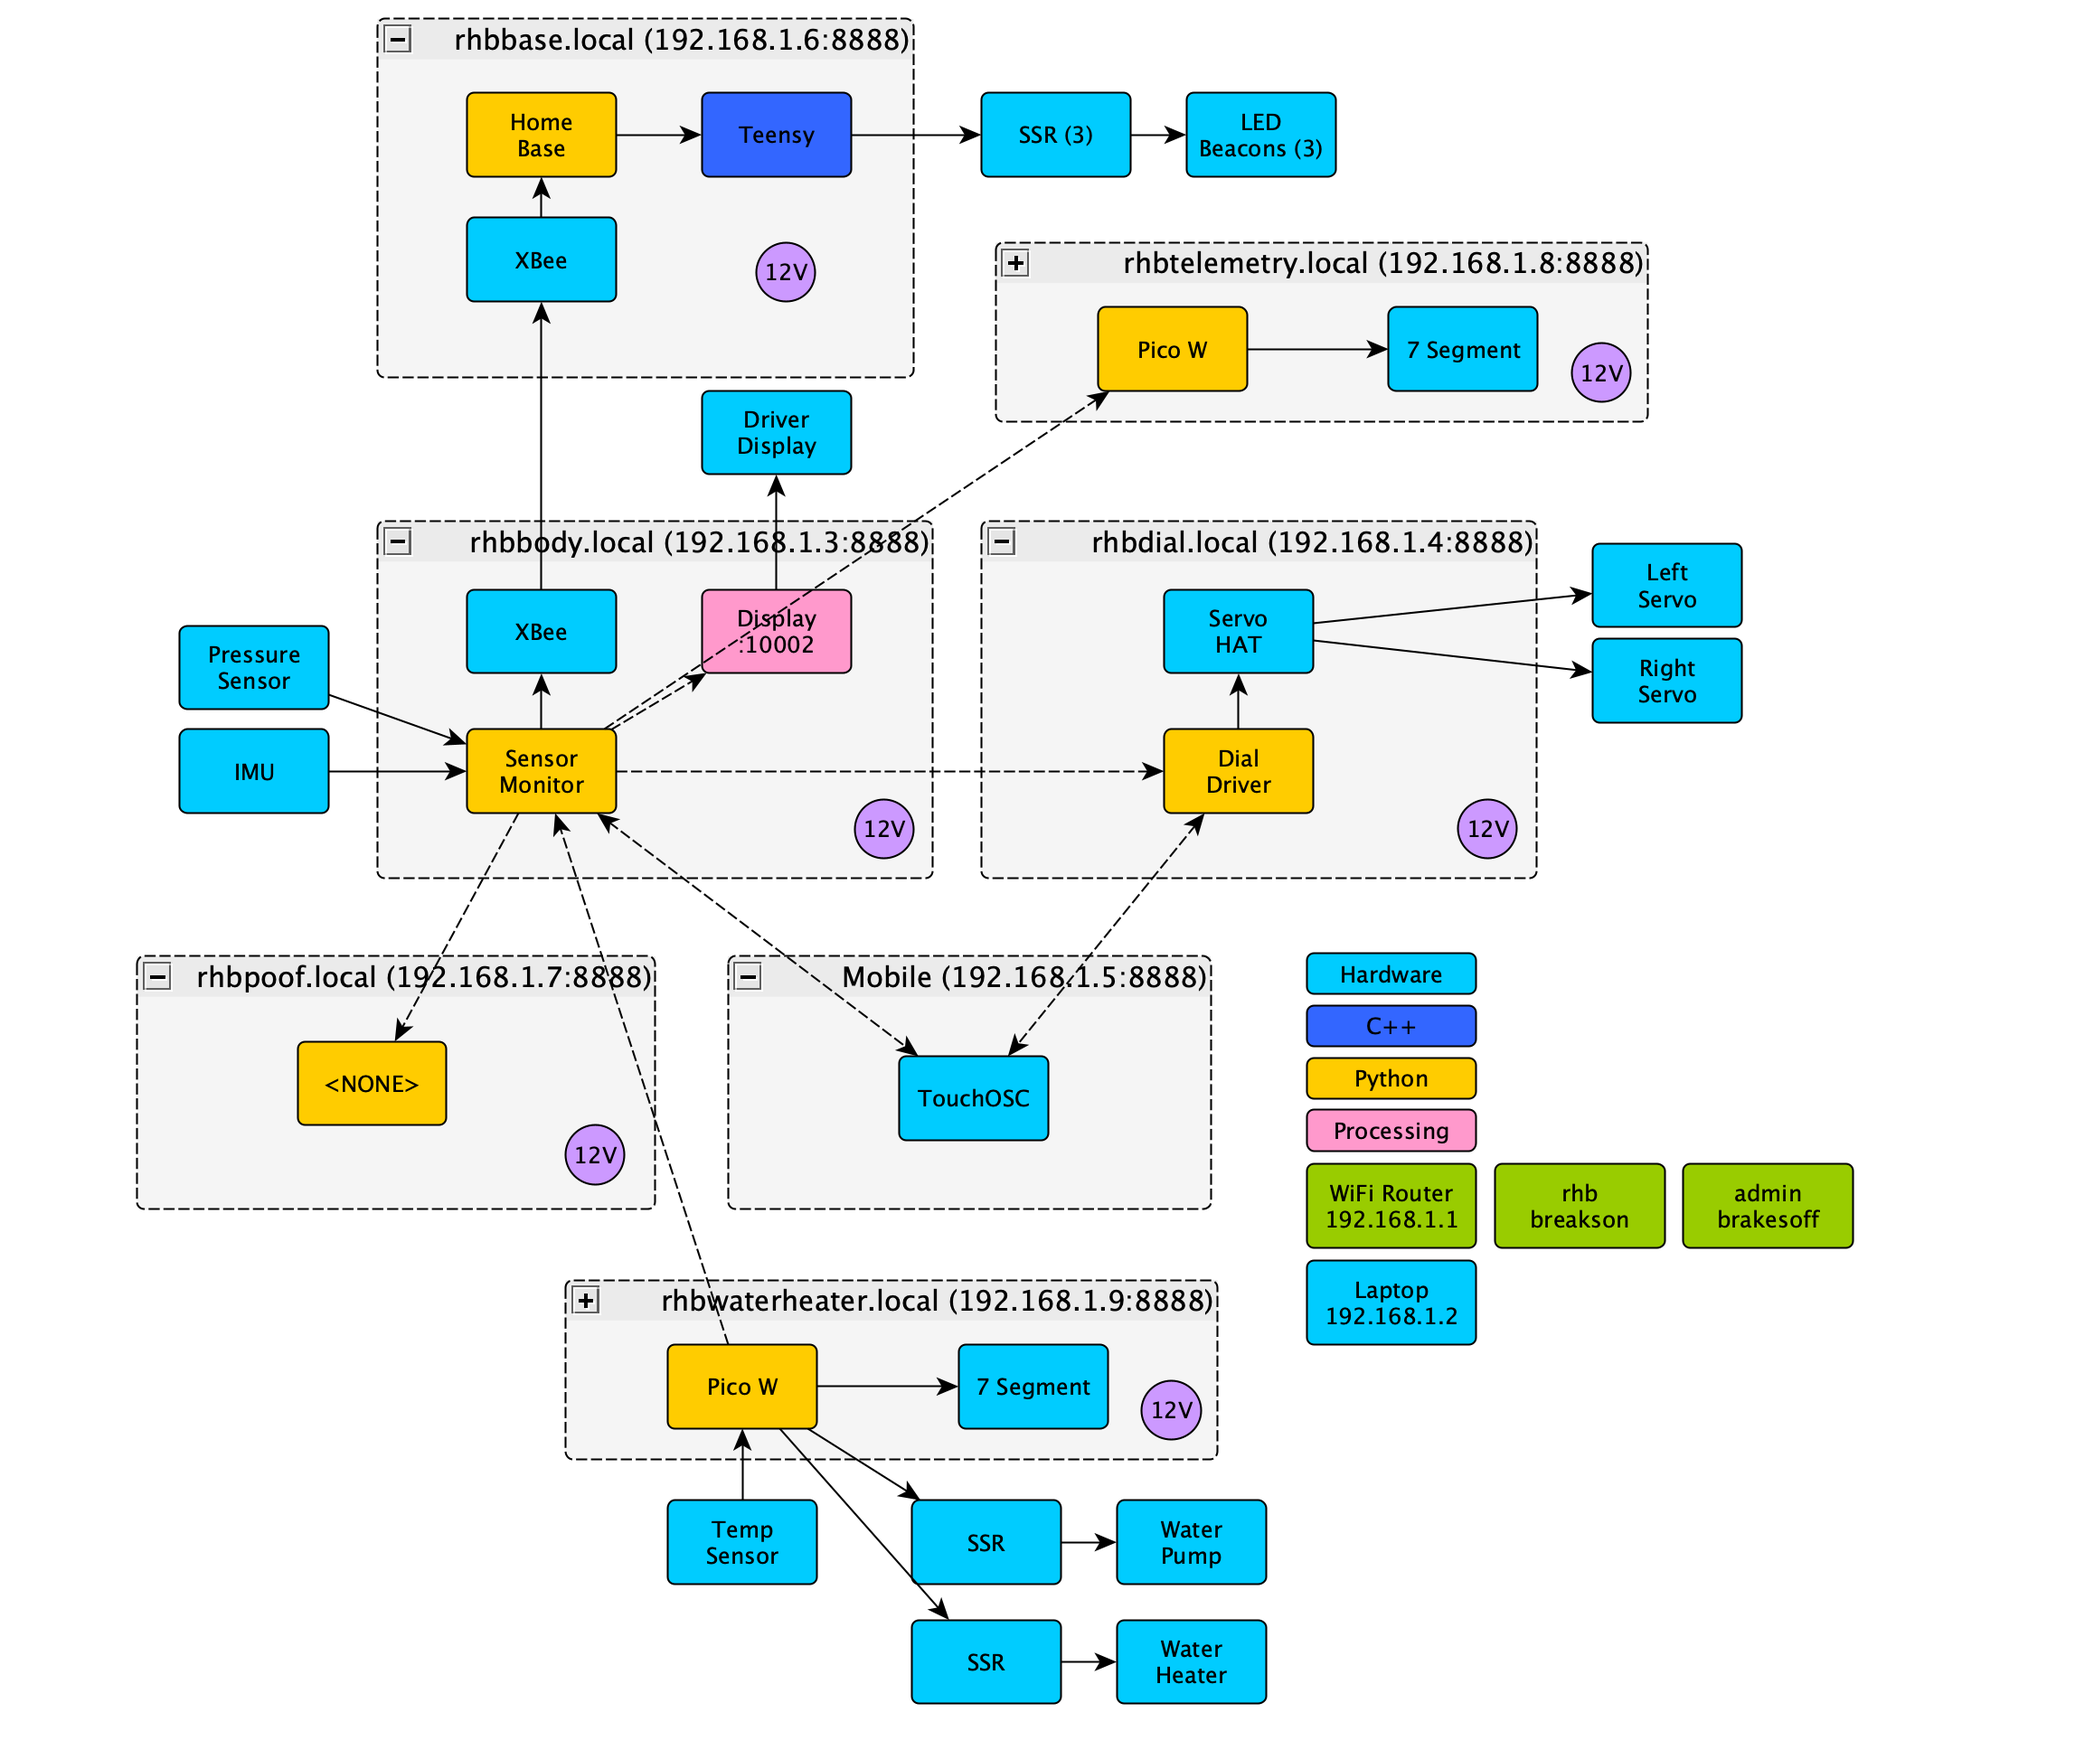
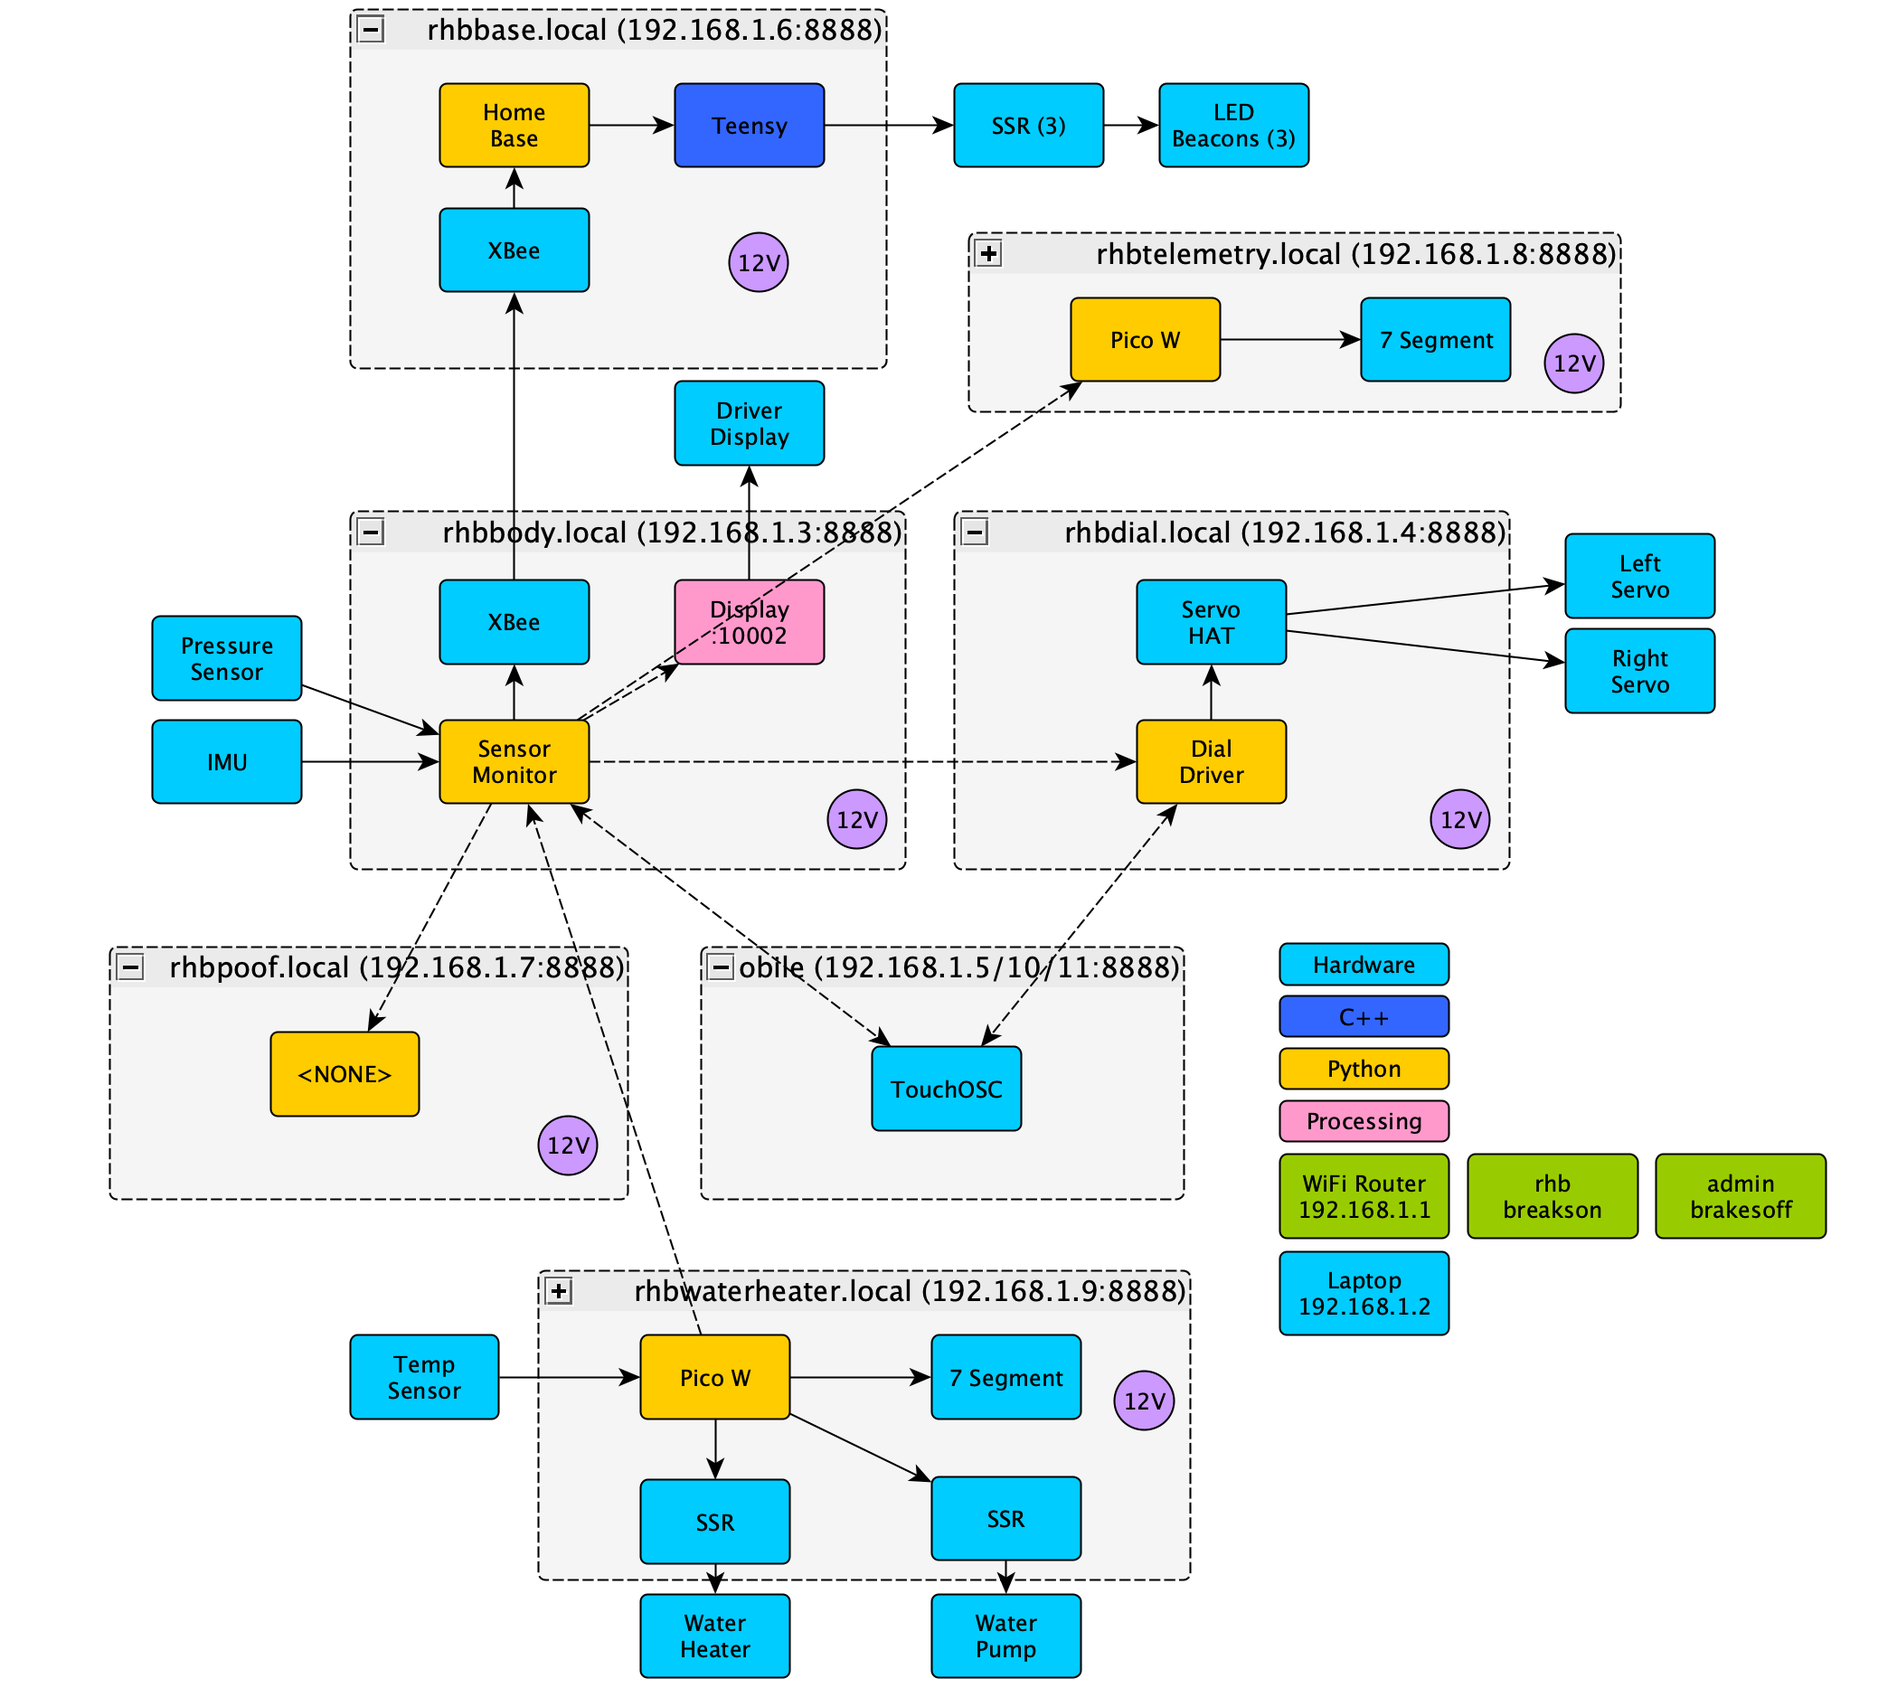
updates for 2024

Changed region(s): [[0.062, 0.0, 0.9604, 1.0], [0.1859, 0.7812, 0.2788, 0.8438]]

diff --git a/rhb-sensor-monitor.py b/rhb-sensor-monitor.py
@@ -30,6 +30,8 @@ from pythonosc import osc_message_builder
 from pythonosc import udp_client
 from digi.xbee.devices import XBeeDevice, RemoteXBeeDevice, XBee64BitAddress
 
+import rhb_sensor_monitor.alternating_sensor as AS
+
 XBEE_COORDINATOR = "0013A20041CB4F87"
 XBEE_ROUTER = "0013A20041CB7786"
 radio = XBeeDevice("/dev/ttyUSB0", 9600)
@@ -49,7 +51,7 @@ data_stream = gps3.DataStream()
 
 FORMAT = "%(asctime)-15s|%(module)s|%(lineno)d|%(message)s"
 logging.basicConfig(format=FORMAT)
-logger = logging.getLogger(__file__)
+logger = logging.getLogger("rhb-sensor-monitor")
 logger.setLevel(logging.INFO)
 
 FILE_HANDLER = RotatingFileHandler("rhb-sensor-monitor.log", maxBytes=40000, backupCount=5)
@@ -71,6 +73,9 @@ metrics = ml.MetricLogging(
     "/home/pi/development/data",
 )
 
+oil_pressure_sensor = AS.AlternatingSensor(29, "oil_pressure", 1000)
+speedometer_sensor = AS.AlternatingSensor(31, "speodometer", 1000)
+
 
 def handle_exception(func):
     """ Handle exception when interacting with peripherals """
@@ -89,7 +94,11 @@ def broadcast(endpoint, value):
     msg = osc_message_builder.OscMessageBuilder(address=endpoint)
     msg.add_arg(value)
     built = msg.build()
-    list(map(lambda x: x.send(built), osc_clients))
+    try:
+        for client in osc_clients:
+            client.send(built)
+    except Exception as e:
+        print(e)
 
 
 def pi_temp() -> float:
@@ -133,10 +142,11 @@ def update_pressure():
     global last_pressure_timestamp
     update = (datetime.datetime.now() - last_pressure_timestamp) > PRESSURE_PERIOD
     pressure = poof_track.pressure_from_raw(pressure_sensor.read_pressure())
-    if metrics.temp.empty or update or int(round(pressure)) != int(round(float(poof_track.last_pressure))):
+    if metrics.temp.empty or update or pressure != poof_track.last_pressure:
         broadcast("/pressure", float(round(float(poof_track.last_pressure))))
+        broadcast("/pressure_fine", poof_track.last_pressure)
         last_pressure_timestamp = datetime.datetime.now()
-    poof_track.add_observation(pressure)
+        poof_track.add_observation(pressure)
     if metrics.pressure.empty or poof_track.poofing():
         piglow.red(64)
         piglow.show()
@@ -148,11 +158,29 @@ def update_pressure():
                 ),
             ]
         )
-        #broadcast("/poof_count", float(poof_track.poof_count))
-        #logger.info(f"Pressure = {pressure}")
     elif not poof_track.poofing():
         piglow.red(0)
         piglow.show()
+
+
+def cardinal_from_heading(heading) -> str:
+    """Cardinal direction from heading value"""
+    if heading >= 337.5 or heading < 22.5:
+        return "N"
+    if 22.5 <= heading < 67.5:
+        return "NE"
+    if 67.5 <= heading < 112.5:
+        return "E"
+    if 112.5 <= heading < 157.5:
+        return "SE"
+    if 157.5 <= heading < 202.5:
+        return "S"
+    if 202.5 <= heading < 247.5:
+        return "SW"
+    if 247.5 <= heading < 292.5:
+        return "W"
+    if 292.5 <= heading < 337.5:
+        return "NW"
 
 
 @handle_exception
@@ -163,6 +191,7 @@ def update_imu():
     if metrics.imu.empty or (abs(heading - metrics.imu["heading"].iloc[-1]) > 1.5):
         broadcast("/imu", json.dumps(updated_imu_state))
         broadcast("/heading", heading)
+        broadcast("/cardinal", cardinal_from_heading(heading))
         metrics.imu = pd.concat(
             [
                 metrics.imu,
@@ -231,14 +260,37 @@ def broadcast_last():
             broadcast("/position/lon", float(metrics.position["lon"].iloc[-1]))
         if metrics.imu.shape[0] > 0:
             broadcast("/heading", float(metrics.imu["heading"].iloc[-1]))
+            broadcast("/cardinal", cardinal_from_heading(float(metrics.imu["heading"].iloc[-1])))
         broadcast("/pressure", float(round(float(poof_track.last_pressure))))
         #if metrics.temp.shape[0] > 0:
         #    broadcast("/temperature", float(int(metrics.temp["temp_f"].iloc[-1])))
         #    broadcast("/temperature_cpu", float(metrics.temp["temp_cpu"].iloc[-1]))
-        if metrics.disk.shape[0] > 0:
-            broadcast("/free_disk", float(metrics.disk["free"].iloc[-1]))
+        #if metrics.disk.shape[0] > 0:
+        #    broadcast("/free_disk", float(metrics.disk["free"].iloc[-1]))
         broadcast("/poof_count", float(poof_track.poof_count))
-        broadcast("/poof_seconds", float(poof_track.poof_time))
+        #broadcast("/poof_seconds", float(poof_track.poof_time))
+        broadcast("/engine", float(oil_pressure_sensor.sample()))
+        broadcast("/moving", oil_pressure_sensor.active())
+
+
+@handle_exception
+def update_oil_pressure():
+    """Check on oil_pressure"""
+    new_value = oil_pressure_sensor.sample()
+    if oil_pressure_sensor.should_broadcast(new_value):
+        broadcast("/engine", float(new_value))
+
+
+@handle_exception
+def update_speedometer():
+    """Check on speedometer"""
+    new_value = speedometer_sensor.active()
+    if speedometer_sensor.should_broadcast(new_value):
+        if new_value:
+            print("moving")
+        else:
+            print("stopped")
+        broadcast("/moving", float(new_value))
 
 
 async def main_loop():
@@ -249,9 +301,11 @@ async def main_loop():
         try:
             metrics.persist()
             update_pressure()
+            update_oil_pressure()
+            update_speedometer()
             update_imu()
             #update_temperature()
-            update_disk_usage()
+            #update_disk_usage()
             new_data = gps_socket.next()
             if new_data:
                 data_stream.unpack(new_data)
@@ -313,7 +367,7 @@ if __name__ == "__main__":
         help="The port the display osc server is listening on",
     )
     parser.add_argument(
-        "--client_ip", default="192.168.1.4,192.168.1.5,192.168.1.8,192.168.1.9", help="The ips of the data clients"
+        "--client_ip", default="192.168.1.4,192.168.1.5,192.168.1.8,192.168.1.9,192.168.1.10,192.168.1.11", help="The ips of the data clients"
     )
     parser.add_argument(
         "--client_port",
@@ -323,8 +377,7 @@ if __name__ == "__main__":
     )
     args = parser.parse_args()
 
-    display_client = udp_client.UDPClient(args.display_ip, args.display_port)
     osc_clients = list(map(lambda x: udp_client.UDPClient(x, args.client_port), args.client_ip.split(",")))
-    osc_clients = osc_clients + [display_client]
+    osc_clients = osc_clients + [udp_client.UDPClient(args.display_ip, args.display_port)]
 
     asyncio.run(init_main())

diff --git a/rhb_sensor_monitor/poof_track.py b/rhb_sensor_monitor/poof_track.py
@@ -19,9 +19,9 @@ import pandas as pd
 from collections import deque
 
 PRESSURE_QUEUE_LEN = 10000
-INSTANT_PRESSURE_QUEUE_LEN = 20
+INSTANT_PRESSURE_QUEUE_LEN = 40
 
-logger = logging.getLogger(__file__)
+logger = logging.getLogger("rhb-sensor-monitor")
 
 
 class PoofTrack:
@@ -36,26 +36,32 @@ class PoofTrack:
 
     @staticmethod
     def pressure_from_raw(raw_pressure) -> float:
-        """Compute from raw"""
-        return max(float(raw_pressure) * 10.0 / 2000.0 + 10, 0.0)
+        """Compute from raw rounded to 0.1"""
+        observation = max(float(raw_pressure) * 10.0 / 2000.0 + 10, 0.0)
+        observation = float(int(observation * 10.0)) / 10.0
+        return observation
 
     def add_observation(self, pressure):
         """ Add 'pressure' observation """
-        self.last_pressure = pressure
-        self.pressure_queue.appendleft(pressure)
-        self.instant_pressure_queue.appendleft(pressure)
+        self.last_pressure = int(pressure)
+        self.pressure_queue.appendleft(self.last_pressure)
+        self.instant_pressure_queue.appendleft(self.last_pressure)
         if len(self.pressure_queue) >= PRESSURE_QUEUE_LEN:
             self.pressure_queue.pop()
         if len(self.instant_pressure_queue) >= INSTANT_PRESSURE_QUEUE_LEN:
             self.instant_pressure_queue.pop()
-        if self.base_pressure == 0 or pressure != self.base_pressure:
-            if not self.poofing():
+        if not self.poofing():
+            if self.base_pressure != pd.Series(self.pressure_queue).median():
                 self.base_pressure = pd.Series(self.pressure_queue).median()
-        if (self.base_pressure - pd.Series(self.instant_pressure_queue).median()) > 3:
+                logger.info(f"base_pressure set to {self.base_pressure}")
+        if abs(self.last_pressure - self.base_pressure) > 3:
             if not self.poofing():
                 self.start()
+                logger.info(f"PoofStart --> Count: {self.poof_count}, last_pressure: {self.last_pressure}, base_pressure: {self.base_pressure}")
         elif self.poofing():
-            self.stop()
+            if self.last_pressure <= self.base_pressure:
+                self.stop()
+                logger.info(f"PoofStop --> Count: {self.poof_count}, last_pressure: {self.last_pressure}, base_pressure: {self.base_pressure}")
 
     def poofing(self):
         """ Are we poofing? """
@@ -65,7 +71,6 @@ class PoofTrack:
         """ Poof start detected """
         self.poof_start = datetime.datetime.now()
         self.poof_count += 1
-        logger.info(f"Start poof {self.poof_count}")
 
     def stop(self):
         """ Poof stop detected """
@@ -75,4 +80,3 @@ class PoofTrack:
                 + (datetime.datetime.now() - self.poof_start).total_seconds()
             )
             self.poof_start = None
-            logger.info(f"Stop poof {self.poof_count}")

diff --git a/rhb_sensor_monitor/alternating_sensor.py b/rhb_sensor_monitor/alternating_sensor.py
@@ -1,0 +1,41 @@
+"""State sensor that can be alternating with a timeout"""
+import datetime
+
+import RPi.GPIO as GPIO
+
+
+class AlternatingSensor:
+    
+    def __init__(self, pin: int, name: str, timeout_ms: int):
+        """Initialize the sensor"""
+        self.pin = pin
+        self.name = name
+        self.timeout = timeout_ms
+        self.last_state = False
+        self.last_change_time = None
+        self.last_broadcast = False
+        GPIO.setmode(GPIO.BOARD)
+        GPIO.setup(self.pin, GPIO.IN, pull_up_down=GPIO.PUD_UP)
+
+    def sample(self) -> bool:
+        """Sample the sensor to see if we are ticking"""
+        current_state = not GPIO.input(self.pin)
+        if current_state is not self.last_state:
+            self.last_state = current_state
+            self.last_change_time = datetime.datetime.now()
+        return current_state
+
+    def active(self) -> bool:
+        """Is the sensor active?"""
+        self.sample()
+        if self.last_change_time:
+            diff = (datetime.datetime.now() - self.last_change_time)
+            return diff.total_seconds() * 1000 < self.timeout
+        return False
+
+    def should_broadcast(self, new_value) -> bool:
+        """Should we broadcast the new value?"""
+        if new_value is not self.last_broadcast:
+            self.last_broadcast = new_value
+            return True
+        return False
